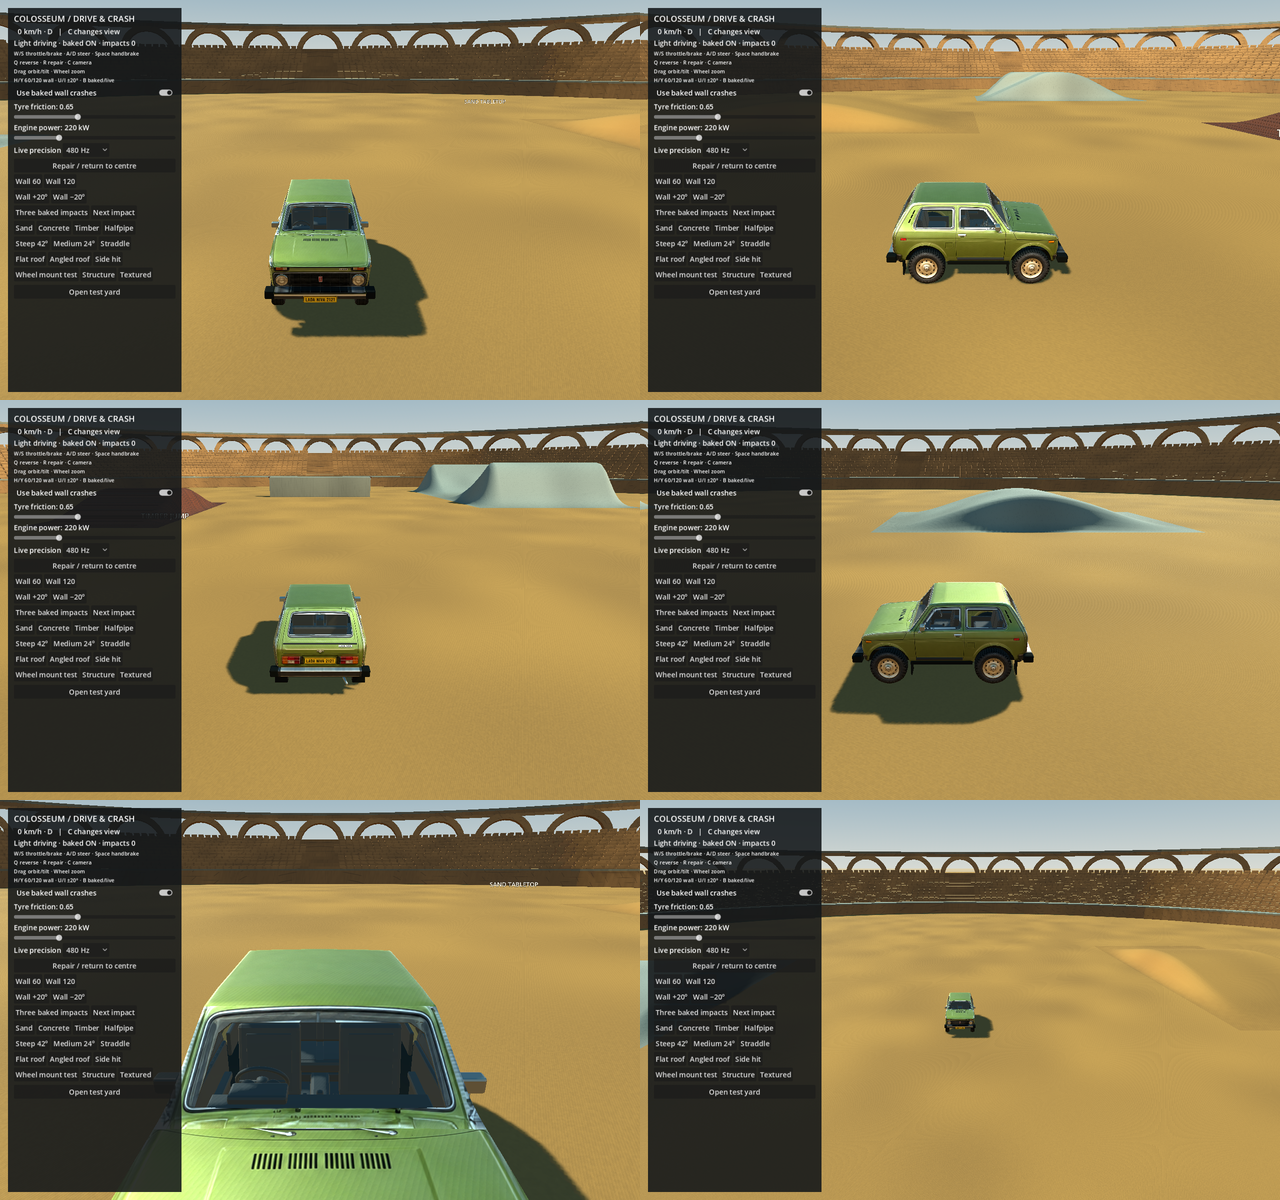
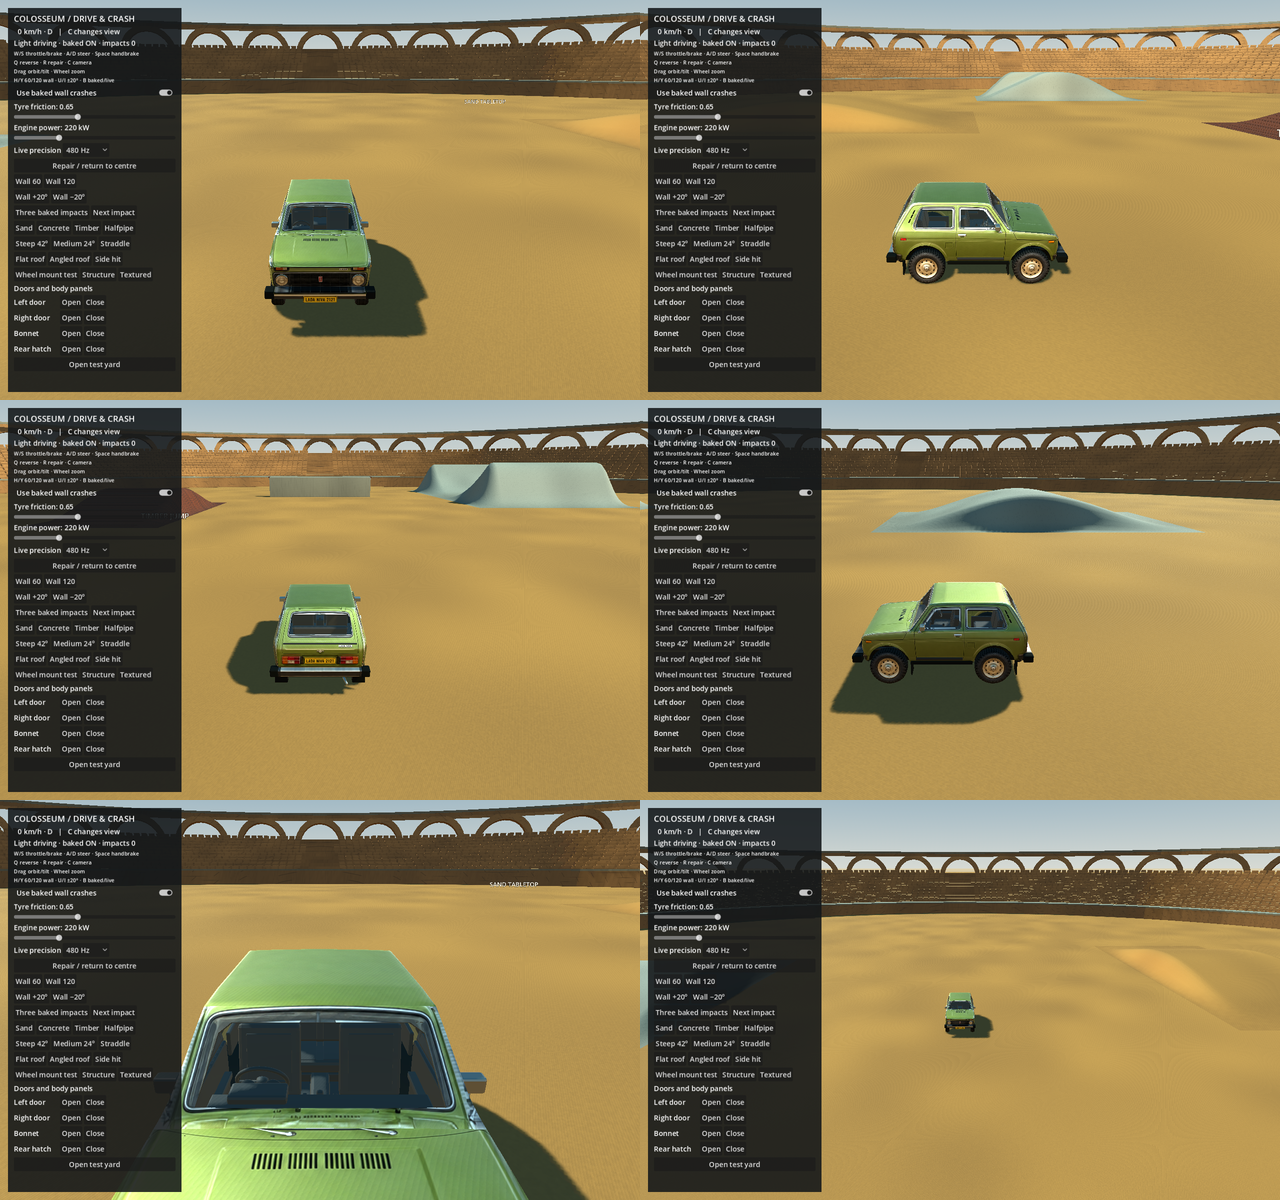
Integrate multiaxis campaign inventory and native arena panel evidence

diff --git a/tools/bake_campaign.py b/tools/bake_campaign.py
@@ -25,7 +25,7 @@ ROOT = Path(__file__).resolve().parents[1]
 def main():
     parser = argparse.ArgumentParser(description=__doc__)
     parser.add_argument('--godot', default='/Applications/Godot.app/Contents/MacOS/Godot')
-    parser.add_argument('--family', required=True, choices=['horizontal', 'partial', 'roof', 'conditioned'])
+    parser.add_argument('--family', required=True, choices=['horizontal', 'partial', 'roof', 'conditioned', 'multiaxis'])
     parser.add_argument('--workers', type=int, default=4)
     parser.add_argument('--resume', action='store_true')
     parser.add_argument('--timeout', type=float, default=1200)

diff --git a/README.md b/README.md
@@ -52,7 +52,7 @@ python3 tools/demo.py arena
 
 The alternative arena has tiered seating, repeating arches, a sand floor, sand/concrete/timber jumps, a halfpipe, and adjacent **42° / 24° ramps** with a straddling start. W/S/A/D, Space, Q and R keep their usual controls. Use **Open colosseum arena** in the test yard or **Open test yard** in the arena to switch locations; switching starts a fresh car. Both scenes use the shared vehicle runtime and current damage materials.
 
-The arena uses sky ambient fill, material cavity shading and a shadowed sun. Its curved retaining wall uses cheap rigid contacts; it does not apply incompatible planar-wall crash recordings. See [arena controls, lighting, evidence and limits](arena/README.md).
+The arena uses sky ambient fill, material cavity shading and a shadowed sun. Its curved retaining wall uses cheap rigid contacts; it does not apply incompatible planar-wall crash recordings. Drag to orbit through 360° and tilt; use the wheel to zoom. Both driving areas expose the shared engine/grip, baked/live, precision and opening-panel controls. See [arena controls, lighting, evidence and limits](arena/README.md) and [panel mechanics, glass and replay](docs/VEHICLE_PANELS.md).
 
 ```sh
 python3 tools/demo.py verify-arena --no-import
@@ -64,12 +64,19 @@ python3 tools/demo.py verify-arena --no-import
 python3 tools/demo.py baked
 ```
 
-Choose an impact angle and 60/120 km/h. The library covers the full circle every
-30°, plus the two ±20° frontal cases and a 75°/60 km/h coverage case: 27 recordings. Space triggers contact-time
+Choose an impact angle and 60/120 km/h. The horizontal library retains the full
+30° circle and adds the 45° compass directions, frontal ±20° at both speeds,
+and a 75°/60 km/h coverage case: 37 recordings. Space triggers contact-time
 selection of the closest compatible bake; L records a fresh case; Z shows the
 invisible 5 × 3 × 3 classifier grid. Buttons play the frontal trio or the whole bank.
 Replay applies the saved deformation and wheel states with zero structural solver steps.
 See [the round-trip procedure and limits](docs/BAKED_CRASH_PROBE.md).
+
+The expanded [offline bake campaign](docs/BAKE_CAMPAIGN.md) also records partial
+wall hits, roof/underside/diagonal impacts and the supported damage sequence,
+including panels, glass and interior state. [Multiaxis authoring and its viewer](docs/MULTIAXIS_BAKING.md)
+are separate from the horizontal driving matcher; recording a direction does
+not automatically make every world contact compatible with it.
 
 ## Candidate layered damage materials
 

diff --git a/docs/BAKE_CAMPAIGN.md b/docs/BAKE_CAMPAIGN.md
@@ -34,6 +34,7 @@ Use the timed campaign runner from the repository root:
 ```sh
 python3 tools/bake_campaign.py --family horizontal --workers 4 --resume
 python3 tools/bake_campaign.py --family partial --workers 4 --resume
+python3 tools/bake_campaign.py --family multiaxis --workers 4 --resume
 python3 tools/bake_campaign.py --family roof --workers 1 --resume
 # Requires the newly generated impact_000_60 prefix:
 python3 tools/bake_campaign.py --family conditioned --workers 1
@@ -42,8 +43,8 @@ python3 tools/bake_campaign.py --family conditioned --workers 1
 The case inventory comes from the Godot authoring definitions rather than a
 second manually maintained list. Parallel jobs suppress catalog updates; rebuild
 the catalogs after workers finish. Use one worker for the legacy roof fixtures,
-whose CLI writes a shared catalog. The multiaxis helper has its own authoring
-CLI and separate catalog.
+whose CLI writes a shared catalog. The multiaxis helper also has its own authoring
+CLI and separate catalog; the same timed runner supports it.
 
 Quality 4 runs physics at **1,920 Hz**, records **2.5 seconds** after contact and
 saves **301 samples at 120 Hz**. The initial isolated frontal-60 pilot measured
